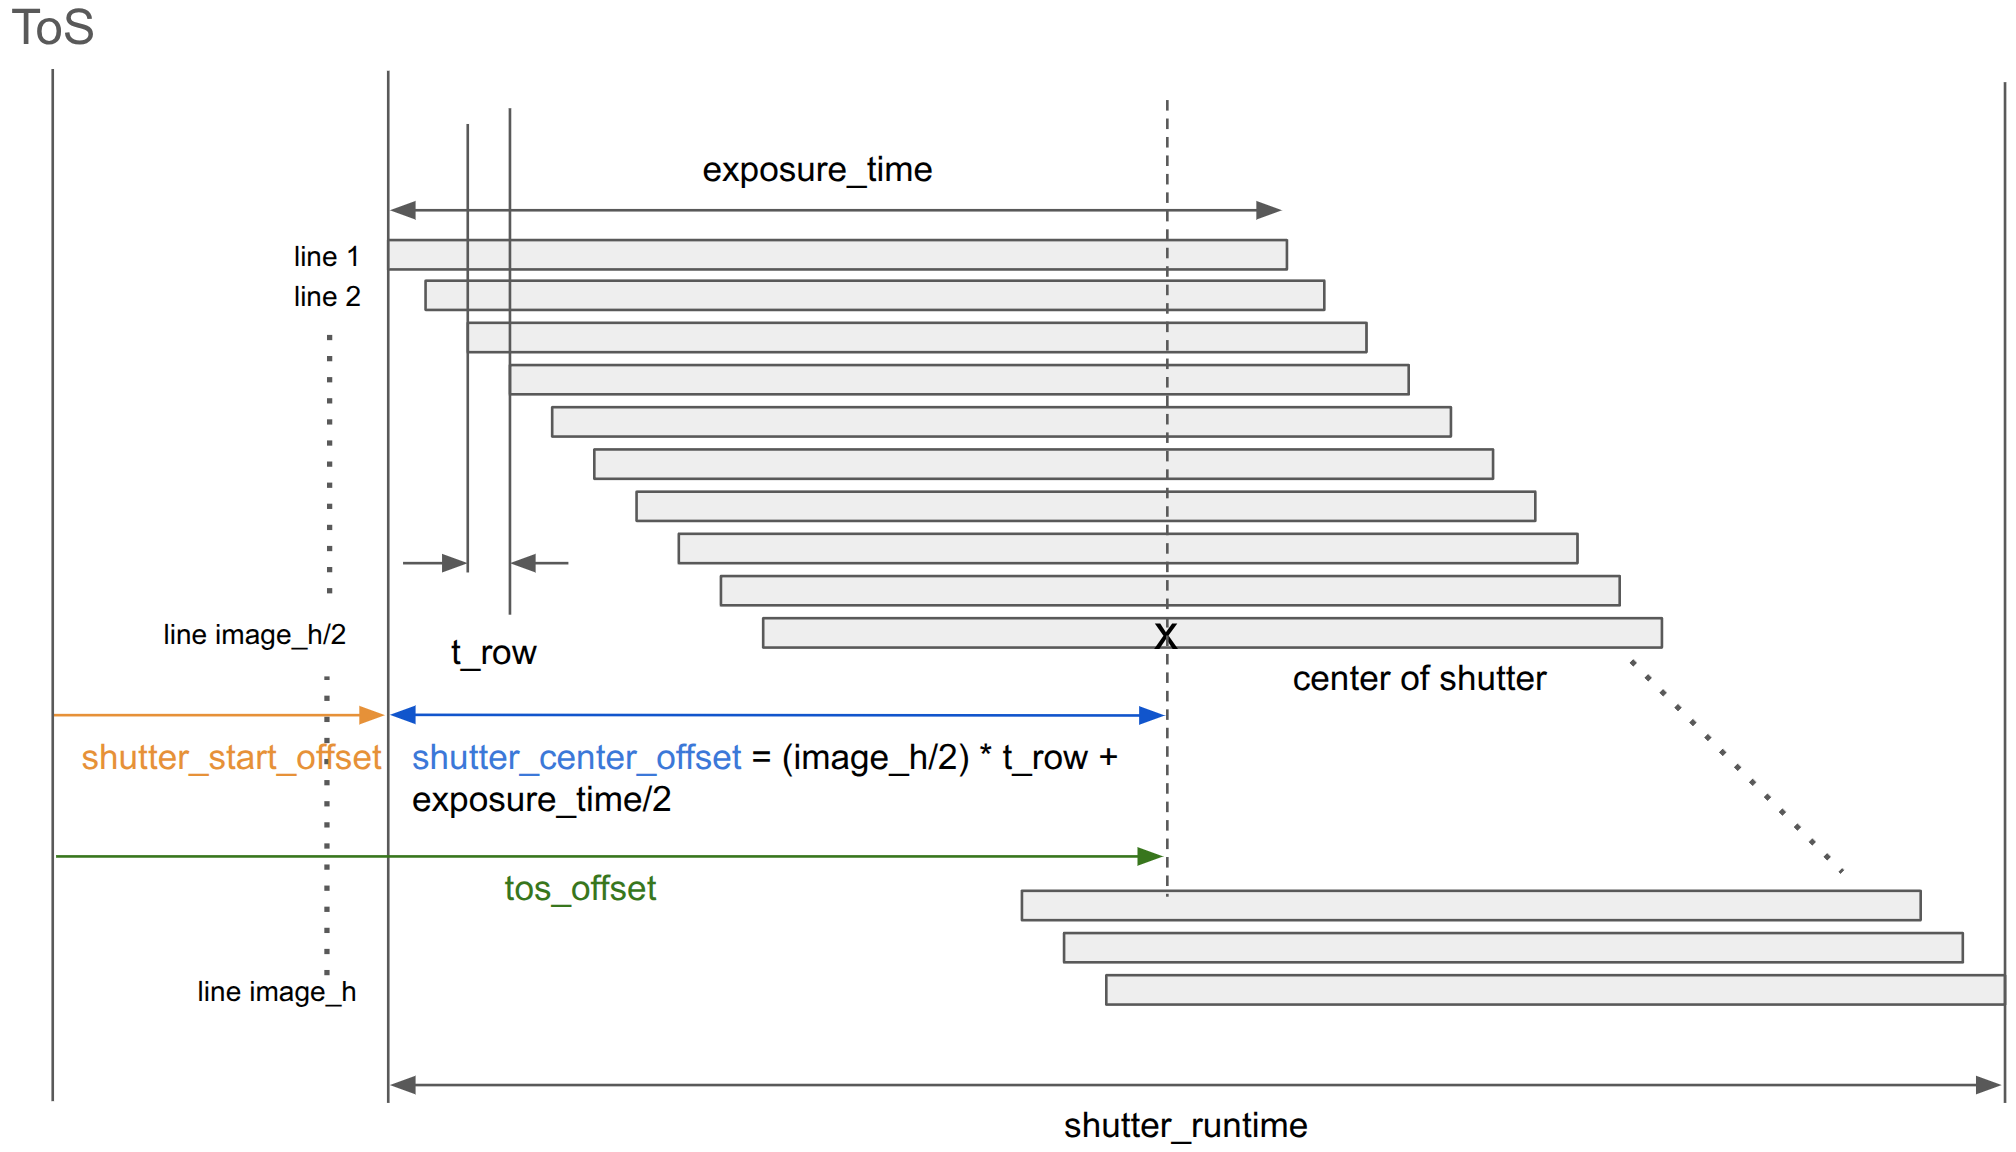
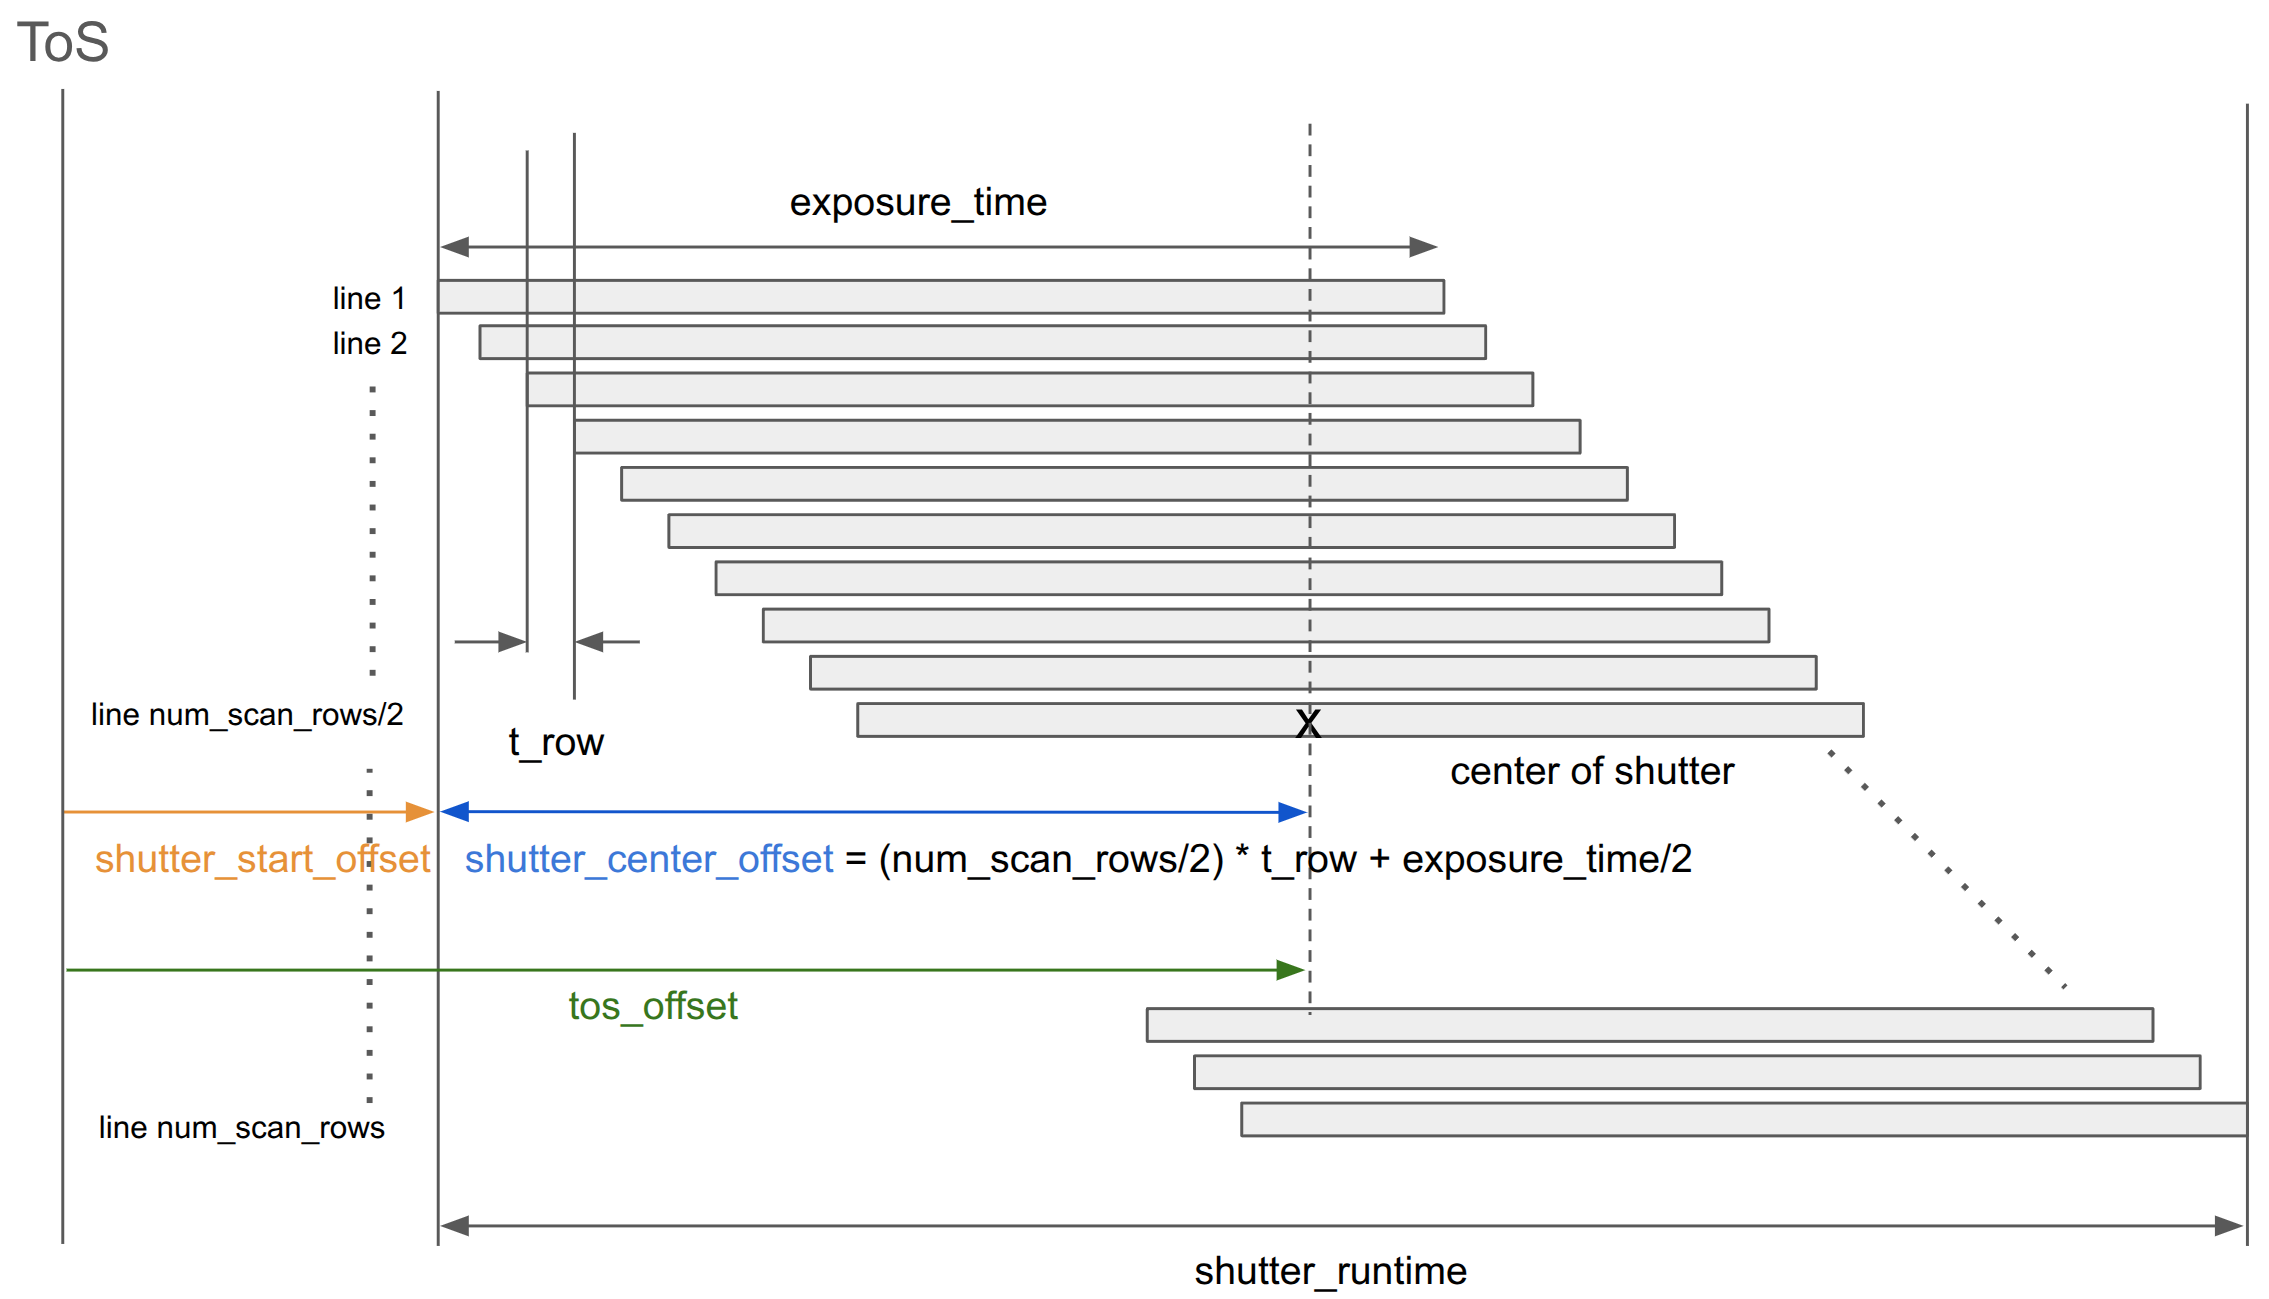
docs(schema): remove image_w/image_h from camera; add num_scan_rows in shutter model
- Remove image_w and image_h from sensors.camera (schema and example).
- In camera shutter modeling variables: add num_scan_rows (number of
  horizontal scan lines; often coincides with image vertical resolution);
  replace image_h with num_scan_rows in shutter_center_offset formula.
- Update media figures (camera_shutter_modeling.png, lidar_trigger_timing.png).

Verify: review SCHEMA.md sensors.camera and shutter modeling section.

Changed region(s): [[0.0, 0.0938, 1.0, 1.0], [0.0, 0.0, 0.0625, 0.0625], [0.1875, 0.4688, 0.2812, 0.5]]

diff --git a/SCHEMA.md b/SCHEMA.md
@@ -56,8 +56,6 @@ sensors:
       hz: 20.0
       tos_offset: 50.0
       name: "Camera Front Narrow"
-      image_w: 3840
-      image_h: 2160
       timestamp_offset: 0.0
     - topic: "/sensing/camera/camera1/image_raw/compressed"
       mapped_topic: "/sensing/camera/front_wide/image_raw/compressed"
@@ -66,8 +64,6 @@ sensors:
       hz: 20.0
       tos_offset: 50.0
       name: "Camera Front Wide"
-      image_w: 3840
-      image_h: 2160
       timestamp_offset: 0.0
     - topic: "/sensing/camera/camera2/image_raw/compressed"
       mapped_topic: "/sensing/camera/front_right/image_raw/compressed"
@@ -76,8 +72,6 @@ sensors:
       hz: 20.0
       tos_offset: 50.0
       name: "Camera Front Right"
-      image_w: 2880
-      image_h: 1860
       timestamp_offset: 0.0
     - topic: "/sensing/camera/camera3/image_raw/compressed"
       mapped_topic: "/sensing/camera/back_right/image_raw/compressed"
@@ -86,8 +80,6 @@ sensors:
       hz: 20.0
       tos_offset: 50.0
       name: "Camera Back Right"
-      image_w: 2880
-      image_h: 1860
       timestamp_offset: 0.0
 ```
 
@@ -159,14 +151,12 @@ The figure below illustrates the LiDAR scan timing model.
 
 Entries under `sensors.camera` add the following type-specific properties in addition to the common fields in **sensors.\***:
 
-| Field              | Presence | Type    | Description                                                                                                                                                                                                                              |
-| ------------------ | -------- | ------- | ---------------------------------------------------------------------------------------------------------------------------------------------------------------------------------------------------------------------------------------- |
-| `type`             | required | string  | ROS message type. Allowed values for camera are described in the Co-MLOps Platform documentation.                                                                                                                                        |
-| `mapped_topic`     | required | string  | Reserved topic name on the Co-MLOps Platform that this sensor's `topic` is mapped to; used for visualization layout and for Co-MLOps Dataset (nuScenes fork) conversion. See below for allowed values (camera).                          |
-| `image_w`          | required | integer | Image width (pixels).                                                                                                                                                                                                                    |
-| `image_h`          | required | integer | Image height (pixels).                                                                                                                                                                                                                   |
-| `tos_offset`       | optional | float   | Offset (ms) from ToS to the temporal center of the camera exposure. Sign: positive = after ToS, negative = before ToS. See below for definition and figure. When omitted, the Co-MLOps Platform interprets it as 0.                      |
-| `timestamp_offset` | optional | float   | Deviation (ms) of the message `header.stamp` on `topic` from the time point that `tos_offset` refers to. Positive = stamp is later than tos_offset; negative = stamp is earlier. When omitted, the Co-MLOps Platform interprets it as 0. |
+| Field              | Presence | Type   | Description                                                                                                                                                                                                                              |
+| ------------------ | -------- | ------ | ---------------------------------------------------------------------------------------------------------------------------------------------------------------------------------------------------------------------------------------- |
+| `type`             | required | string | ROS message type. Allowed values for camera are described in the Co-MLOps Platform documentation.                                                                                                                                        |
+| `mapped_topic`     | required | string | Reserved topic name on the Co-MLOps Platform that this sensor's `topic` is mapped to; used for visualization layout and for Co-MLOps Dataset (nuScenes fork) conversion. See below for allowed values (camera).                          |
+| `tos_offset`       | optional | float  | Offset (ms) from ToS to the temporal center of the camera exposure. Sign: positive = after ToS, negative = before ToS. See below for definition and figure. When omitted, the Co-MLOps Platform interprets it as 0.                      |
+| `timestamp_offset` | optional | float  | Deviation (ms) of the message `header.stamp` on `topic` from the time point that `tos_offset` refers to. Positive = stamp is later than tos_offset; negative = stamp is earlier. When omitted, the Co-MLOps Platform interprets it as 0. |
 
 ### mapped_topic (camera)
 
@@ -204,7 +194,8 @@ Variables in the figure:
 
 - **exposure_time**: Duration each line is exposed (or, for global shutter, the simultaneous exposure duration). Assumed to be fixed (constant).
 - **t_row**: Time between the start of exposure for consecutive lines. Rolling shutter: > 0; global shutter: = 0.
+- **num_scan_rows**: Number of horizontal scan lines (rolling shutter and global shutter). It often coincides with the vertical resolution of the image.
 - **shutter_start_offset**: Time from ToS to the start of the first line's exposure. Sign: positive when the start is after (later than) ToS; negative when it is before (earlier than) ToS.
-- **shutter_center_offset**: Time from the start of the first line's exposure to the temporal center of the middle line's exposure. Always positive. For rolling shutter: `(image_h/2) × t_row + exposure_time/2`.
+- **shutter_center_offset**: Time from the start of the first line's exposure to the temporal center of the middle line's exposure. Always positive. For rolling shutter: `(num_scan_rows/2) × t_row + exposure_time/2`.
 
 **Formula:** `tos_offset = shutter_start_offset + shutter_center_offset`
